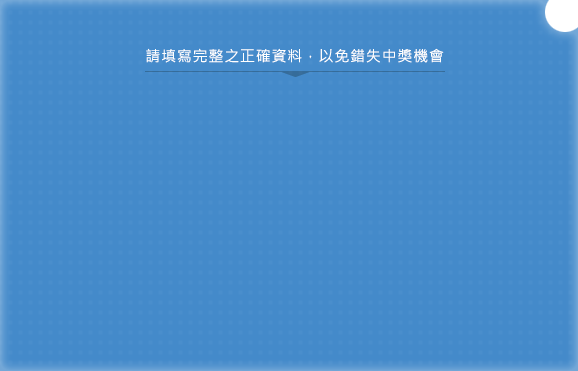
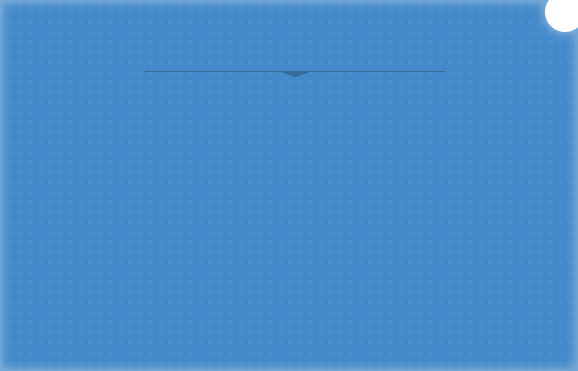
adjust photo

Changed region(s): [[0.2491, 0.1186, 0.7785, 0.1779]]

diff --git a/public/css/_lottery.css b/public/css/_lottery.css
@@ -21,7 +21,7 @@ a{font:300 14px 微軟正黑體,Microsoft JhengHei;text-decoration:none;
 .content .text p{padding:30px 0}
 .content .text a:hover{filter:alpha(opacity=70);opacity:.7}
 
-#form{background:url(../images/l-09.png) 0 0 no-repeat;width:578px;height:371px;padding:100px 0 0 0;font:300 14px 微軟正黑體,Microsoft JhengHei}
+#form{background:url(../images/l-09.png) 0 0 no-repeat;width:578px;height:371px;padding:20px 0 0 0;font:300 14px 微軟正黑體,Microsoft JhengHei}
 #form form table{width:426px;margin:0 auto}
 #form form div input{border:none;width:300px}
 #form form div{background:#fff;border:1px solid #DCDCDC;border-radius:10px;padding:5px 10px;margin:10px 0}
@@ -29,6 +29,8 @@ a{font:300 14px 微軟正黑體,Microsoft JhengHei;text-decoration:none;
 #form form .submit:hover{filter:alpha(opacity=70);opacity:.7}
 #form form #clear{background:url(../images/l-14.jpg)}
 #form form #send{background:url(../images/l-15.jpg)}
+#form form p{color:#fff;text-align:center;font-size:1.1em}
+#form form p a{color:#FAD30A;text-decoration:underline;font-weight:900}
 
 #cboxOverlay,
 #cboxLoadingGraphic,#cboxContent,#cboxLoadingOverlay,
